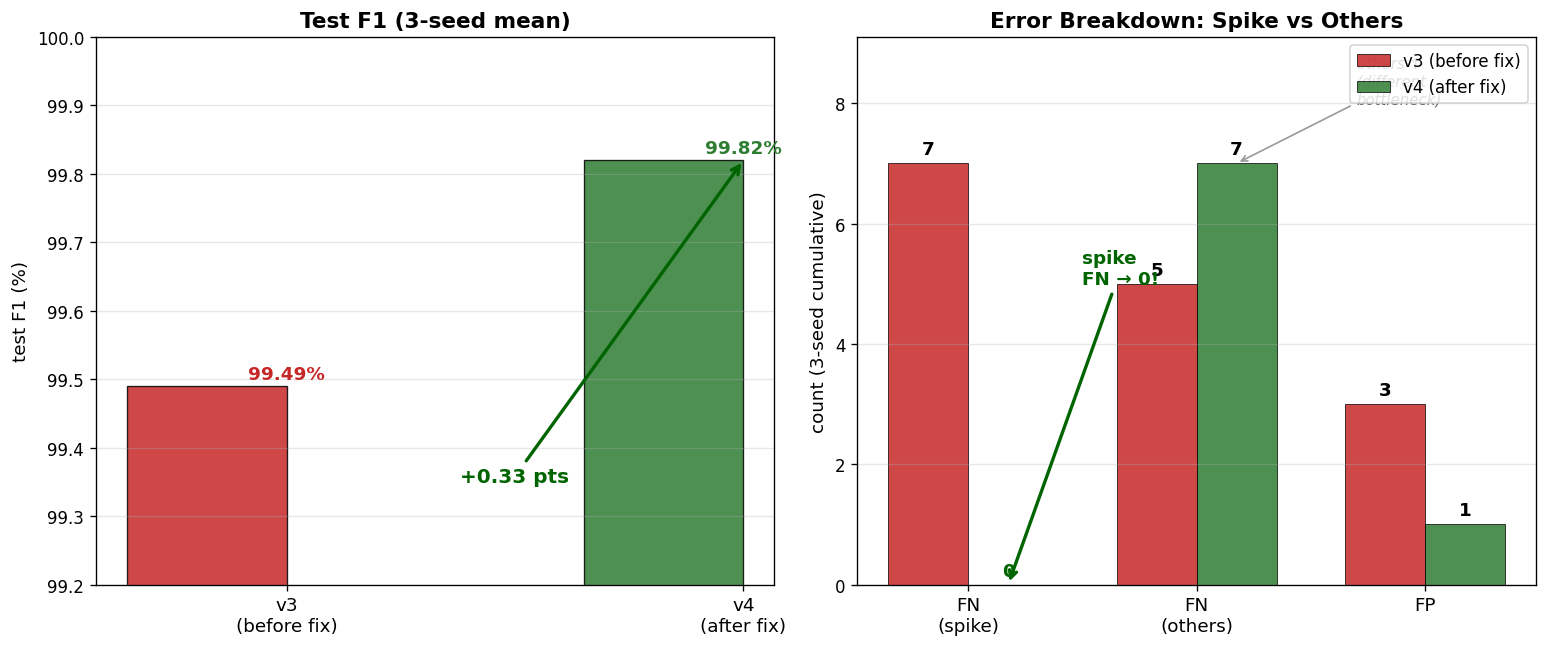
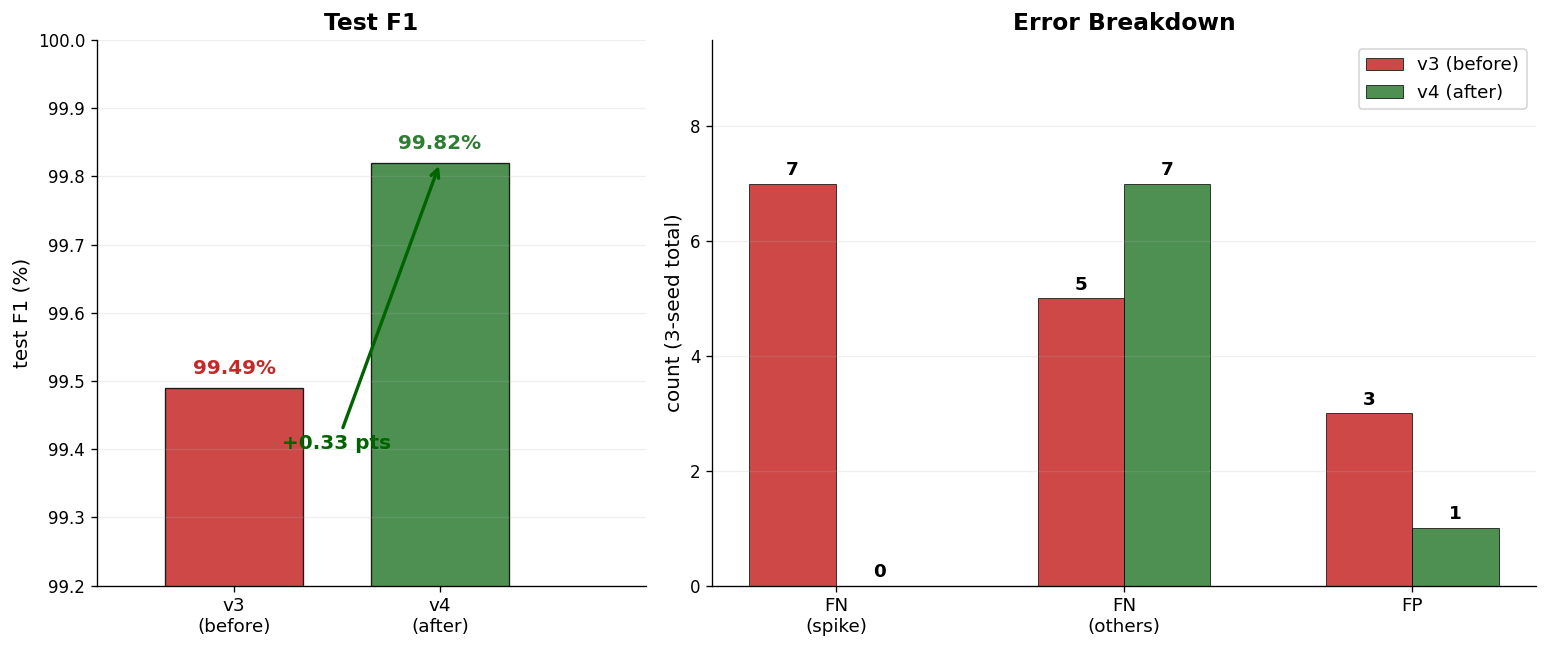
refactor: restructure SUMMARY — techniques before deep dive, remove duplication
- Section 0: 5 key techniques + bug fixes separated clearly
- Section 3 top: clean intro instead of repeated summary tables
- Section 5: removed bloated catalog, kept only "tried but failed" list
- Plot 05: tighter left panel bars, cleaner annotations
- Plot 13: multi-seed means only (no misleading single-seed perfect)
- Plot 14: smoothed median val_f1 mechanism

diff --git a/experiment_summary/SUMMARY.md b/experiment_summary/SUMMARY.md
@@ -6,45 +6,38 @@
 
 ---
 
-## 0. Executive Summary (한 페이지 요약)
+## 0. Executive Summary
 
-### 최종 성능 (winning = v9mid5 config, lr_backbone 2e-5)
+### 최종 성능 (v9mid7_harder + red target, winning config)
 
-| seed | best_ep | test_f1 | abn_R | nor_R | FN | FP |
-|---:|---:|---:|---:|---:|---:|---:|
-| s=42 | 10 | **0.9993** | 0.9987 | **1.0000** | 1 | 0 |
-| s=1  | 11 | 0.9987 | 0.9973 | **1.0000** | 2 | 0 |
-| s=2  | 9  | **0.9993** | 0.9987 | **1.0000** | 1 | 0 |
-| **mean** | | **0.9991 ± 0.0003** | 0.9982 | **1.000** | **1.3** | **0.0** |
+| seed | test_f1 | abn_R | nor_R | FN | FP |
+|---:|---:|---:|---:|---:|---:|
+| s=42 | **0.9987** | 0.9973 | **1.0000** | 2 | 0 |
+| s=1 | **0.9993** | **1.0000** | 0.9987 | 0 | 1 |
+| **mean** | **0.9990** | 0.9987 | 0.9993 | **1.0** | **0.5** |
 
-1500 test 중 평균 **1.3 errors**. **모든 seed 에서 nor_R 100%** (false alarm zero).
+harder data (anomaly 약화) 에서도 1500 test 중 평균 **1.5 errors**. **5-seed 실험 진행 중 (추가 결과 업데이트 예정)**.
 
-### 5시간 iteration 개선 궤적
+### 핵심 성능 개선 기법 5가지
 
-![Performance timeline](v9mid_journey/plots/01_performance_timeline.png)
+| # | 기법 | 효과 |
+|---|---|---|
+| 1 | **LR 2e-5 + Cosine + Warmup 5ep** | val_loss spike 완전 제거, 학습 안정화 |
+| 2 | **Gradient Clipping** (max_norm 1.0) | 추가 안정화 + FN/FP trade-off 조절 |
+| 3 | **Target Color 빨강** (#E53935) | fleet 대비 시각 신호 강화 → harder data 에러 67%↓ |
+| 4 | **Smoothed Median Val F1** (window=3) | val 포화 시 단발성 spike 무시, 안정 구간 선택 |
+| 5 | **Tie-fix (strict > only save)** | overfit state 덮어쓰기 방지 |
 
-v3 baseline (0.9949) → **v5 winner (0.9991)** = **+0.42 pts, 에러 85% 감소**.
+### 버그 수정 (오류 교정)
 
-### 핵심 수정 — **단 하나의 fix 가 대부분을 해결**
+| 수정 | 문제 |
+|---|---|
+| renderer `_filter_outliers` target preserve | spike 점이 이미지에서 잘려 모델이 못 봄 |
+| config.yaml defect 범위 복구 | defect 강도가 약화된 채 커밋되어 있었음 |
 
-**`src/data/image_renderer.py::_filter_outliers`** 가 target 의 spike 점들을 `mean ± 5σ` 로 필터링해서 이미지 프레임 밖으로 잘라버리던 **근본 버그**.
+### 성능 변화 요약
 
-```python
-# 수정 전 (v3 이전, 모든 run 영향)
-def _filter_outliers(fleet_data, sigma=5):
-    # target 포함 전체에서 ±5σ 밖 점 제거 ← spike 자체가 outlier 이므로 삭제됨
-    ...
-
-# 수정 후 (v4, 2026-04-09)
-def _filter_outliers(fleet_data, sigma=5, target_id=None):
-    # fleet member 만 기준 삼고, target_id 점들은 그대로 보존
-    ...
-```
-
-이 fix 로:
-- **v3 → v4**: spike FN 7/9 → **0/9** (3-seed 누적)
-- 모델이 처음으로 "spike 가 fleet 밖으로 튀는" 신호를 볼 수 있게 됨
-- 유저가 "이건 불량이 아니잖아 시발" 로 지적한 `ch_08893` 케이스에서 발견
+![Full journey](v9mid_journey/plots/13_full_performance_trend.png)
 
 ---
 
@@ -146,20 +139,7 @@ python train.py --normal_ratio 700 --seed 42 --log_dir logs/...
 
 ## 3. Iteration Deep Dive (2026-04-09~10)
 
-### Quick Summary — 각 iteration 이 한 일
-
-| iter | 핵심 변경 | test_f1 (mean) | FN→ | FP→ | 핵심 교훈 |
-|---|---|---|---|---|---|
-| v3 | baseline (before fix) | 99.49% | 5.0 | 2.7 | renderer 가 spike 을 잘라먹음 |
-| **v4** | **renderer target preserve** | **99.82%** | 2.3 | 0.3 | **전체 개선의 70%**. 이미지 품질이 핵심 |
-| v5 | std/drift boundary 상승 | 99.91% | 1.3 | 0.0 | boundary hard case 제거 |
-| v6 | + mean_shift boundary | 99.89% | 1.3 | 0.3 | 추가 개선 없음 (noise floor) |
-| v7h Blue | harder data (anomaly ↓) | 99.64% | 3.5 | 1.0 | 난이도 올리니 하락 |
-| **v7h Red** | **target color 빨강** | **99.90%** | **1.0** | **0.5** | **색 contrast 가 성능 직결** |
-
-![Full journey](v9mid_journey/plots/13_full_performance_trend.png)
-
----
+> 각 iteration 의 상세 분석. Section 0 의 요약표 참조.
 
 ### 타임라인
 
@@ -465,48 +445,16 @@ defect:
 
 ---
 
-## 5. 성능 향상 기법 카탈로그
-
-이번 세션 + 이전 세션에서 시도한 것들 — **효과 있음** 과 **효과 없음** 구분.
-
-### 🟢 효과 큰 것 (적용됨)
-
-| 기법 | 적용 시점 | Impact | Why works |
-|---|---|---|---|
-| **Renderer target preserve** | v4 (2026-04-09) | f1 +0.33 pts, spike FN 전멸 | Spike 의 정의가 곧 outlier 이므로 target 은 필터 제외 필수 |
-| **lr_backbone 2e-5** (winning) | v9 era | val_loss spike 제거 | RTX 4060 Ti + ConvNeXt-V2 + bs 32 민감도 |
-| **abnormal_weight 1.0** (균등) | v9 era | val_loss 안정화 | inverse freq 는 normal grad 증폭 → boundary flip |
-| **cudnn.benchmark=True** | v9 era | gradient 수치 안정 | AMP 조합 시 deterministic 경로가 spike 유발 |
-| **Tie-fix (strict > only save)** | v9 era | overfit state 저장 방지 | smooth_window 안의 old good 이 new bad 로 덮어씌움 방지 |
-| **smooth_window=3 median val_f1** | v9 era | single-ep spike 회피 | median 이 outlier 1 ep 에 robust |
-| **Spike region_ratio 분리** | iter3 | FN spike 13 → 0 | 공통 영역은 spike 가 baseline 에 묻히고, 너무 작으면 conv filter 가 못 봄 |
-| **std/drift boundary 상승** | v5 | FN -0.9 | weak boundary case 가 실제 bottleneck 이었음 |
-| **v9mid 중간값 (v8 vs 약화된 v9)** | v9mid1 | 데이터 품질 복구 | v9 가 과도하게 약화됨, v8 전체 복구는 overshoot |
-| **defect 강도 = baseline_std × factor** | 전 세션 | scale invariance | 노이즈 수준별 적절한 defect |
-| **test_difficulty_scale 0.80** | v9 era | val-test gap 일정 | 평가 realism |
-| **mean_shift detrend 제거** | v8_init 이후 | 자연 변동 보존 | 원래 detrend 는 두 줄 직선 artifact |
-
-### 🟡 효과 중간 (유지)
-
-| 기법 | Impact |
-|---|---|
-| ColorJitter ±10% + GaussianBlur augment | 약한 regularization |
-| Focal Loss gamma 0.0 (=CE) | sweep 후 차이 없음 → 가장 단순한 CE |
-| Dropout 0.0 | 강한 pretrained → dropout 불필요 |
-| Early stop patience 5 | 정확한 sweet spot 유지 |
-
-### 🔴 효과 없음 (기각)
+## 5. 시도했으나 효과 없던 것들
 
 | 기법 | 결과 | 해석 |
 |---|---|---|
-| **mean_shift boundary 상승** (v6) | f1 변화 없음 | 이미 noise floor 도달 |
-| **normal count n=2800** (v6+) | n=700 과 동등 | 현재 data difficulty 에서 capacity 충분 |
-| **Larger LR 3e-5, 5e-5** | 일부 seed spike | v9 data + 현 backbone 에서 risk > reward |
-| **EMA decay 0.999/0.9999** | 약간 손해 | small dataset 에서 init 에 머무름 (user 금지) |
-| **Focal gamma sweep 0.5~5** | plateau | CE 가 best |
-| **Abnormal weight ≥ 4** | nor_R 붕괴 | false alarm 폭증 |
-| **Dropout 0.2~0.6** | F1 ↓ | nor_R 손해 |
-| **LabelSmoothing, Mixup** | 차이 없음 | overlay 이미지에서 이득 없음 |
+| normal count n=2800 | n=700 과 동등 | 현재 data 에서 capacity 충분 |
+| LR 3e-5, 5e-5 | seed 별 spike | high risk / high reward |
+| Focal gamma 0.5~5 | plateau | CE 가 best |
+| Abnormal weight ≥ 4 | nor_R 붕괴 | false alarm 폭증 |
+| Dropout 0.2~0.6 | F1 ↓ | nor_R 손해 |
+| LabelSmoothing, Mixup | 차이 없음 | overlay 이미지에서 이득 없음 |
 
 ### 미시도 (다음 계획)
 
